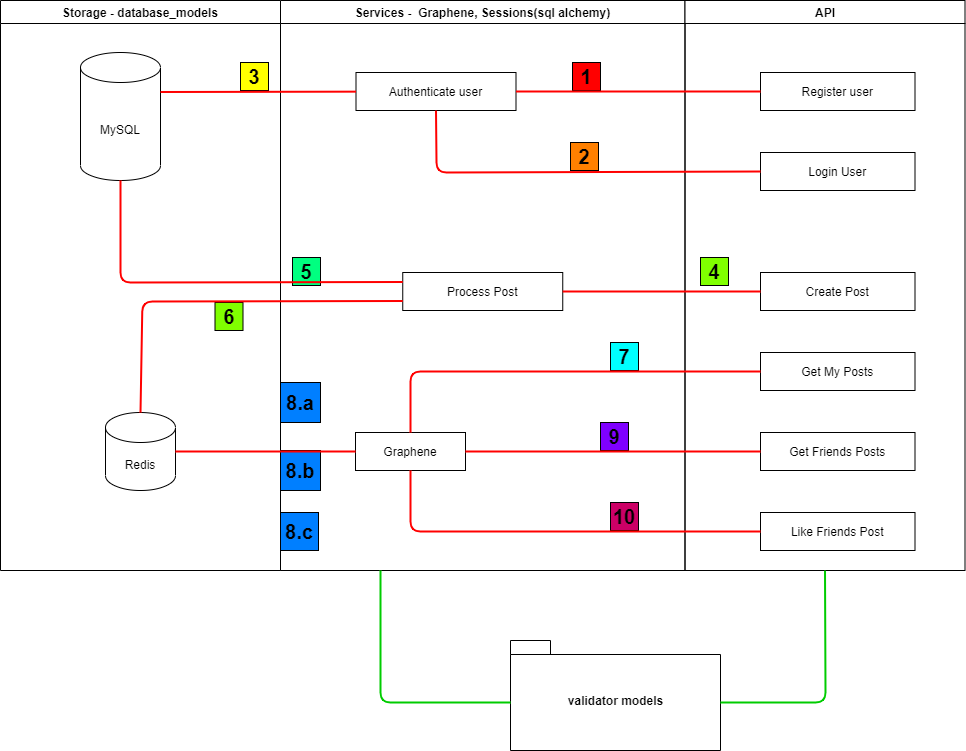
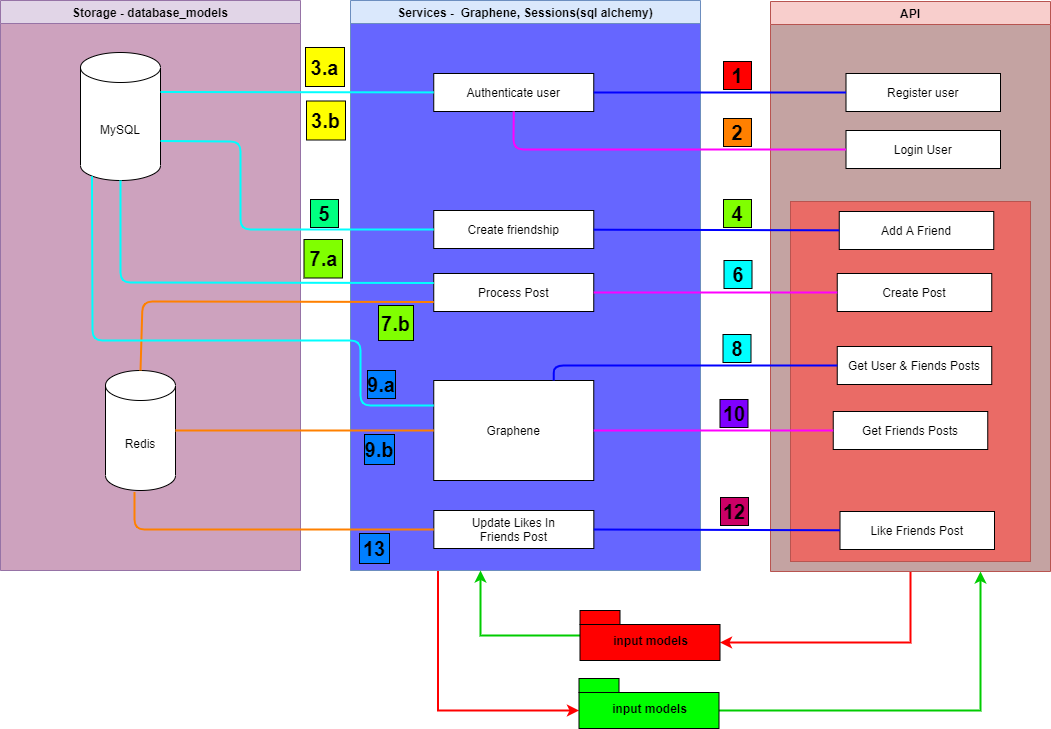
Update the readme file, updated layered Architecture picture

diff --git a/README.md b/README.md
@@ -2,13 +2,10 @@
 [![codecov](https://codecov.io/gh/Skhendle/GraphQL_System/branch/main/graph/badge.svg?token=rSx7WWHUb9)](https://codecov.io/gh/Skhendle/GraphQL_System)
 <br>
 # **GraphQL_System**
-This is a backend package that plans to build an API server, that is backed by SQLAlchemeny, Redis and graphene. The authentication will be done through MySQL
+This is a backend system that plans to build an API server for  a user blogging platfrom. It will be built with SQLAlchemeny, SQLlite, Redis and graphene. It will have three layers. The storage layer that contains all the system data, service layer that will allow us to implement the system requirements logic and API  layer that will allow external programs to  commincate with the system.
 
 
-
-
-
-## **How to stat-up the app** <br>
+## **How To Start She APP** <br>
 ```python
 # Python version: 3.9.0
 "MINGW64 - bash terminal"
@@ -23,14 +20,10 @@ To activate virtual environment
 $ GraphQL_System : source ".\env\Scripts\activate"
 
 To install the requirements run
-$ GraphQL_System : cd app
-$ GraphQL_System\app : pip  install -r requirements.txt
-$ GraphQL_System\app : cd ..
+$ GraphQL_System : pip  install -r requirements.txt
 
 To update requirements.txt after installing new package
-$ GraphQL_System : cd app
 $ GraphQL_System\app : pip freeze > requirements.txt
-$ GraphQL_System\app : cd ..
 
 To run the application use the following command
 $ GraphQL_System : uvicorn app.main:app --reload
@@ -39,21 +32,25 @@ To deactivate virtual enviroment
 $ GraphQL_System : deactivate
 ```
 
-## **Accessing the API's** <br>
+## **Accessing API DOCUMENTATION** <br>
 - {server url}/docs
 - {server url}/redoc
 
 
 ## </br> **API Routes Documentation Format**
-* Describes the documenation structure for routes, how they are accessed, parameters they use and their responses.</br>
+* Describes the documenation structure for routes, how they are accessed, parameters they use, service packages used and the response.</br>
 
 ### **Package Layer Name | Layer**
 <blockquote>
-[x] __API__ - *Provides the URL of the API, states whether it is a POST, GET, DELETE or UPDATE method, provides the library used to build/support page.*</br>
 
-[x] __Input__ - *Describes the parameters of the __API__*.</br>
+[x] __API__ - *Provides the URL of the API, states whether it is a POST, GET, DELETE or UPDATE method, provides the library used to build/support page.*
+</br>
 
-[x] __Service__ - *Specifies the name of the class used by the route and the location of the file containing the route.*<br>
+[x] __Input__ - *Describes the parameters of the __API__.*
+</br>
+
+[x] __Services__ - *Specifies the name of the class used by the route and the location of the file containing the route.*
+</br>
 
 [x] __Output__ - *Feedback from server, depends on __Input__*</br>
 </blockquote>
@@ -125,10 +122,10 @@ $ GraphQL_System : deactivate
 [x] __Service__ -
 ```python
 {
-    "Class name": "UserLogin()",
+    "Class name": "UserLogin(), UserFriends()",
     "packages": ["app.data_models.databse_models",
         "app.data_models.validator_models"],
-    "file path": "app.services.user_login.py"
+    "file path": ["app.services.user_login.py", "app.services.get_friends.py"]
 }
 
 ```
@@ -184,57 +181,4 @@ $ GraphQL_System : deactivate
 
 
 
-### <br>*Register User | Authenticate* {
-<blockquote>
-[x] __API__ -  
 
-```python
-{"URL" : "###",  "method": "Insert to db", "library": "sqlalchemy"}
-```
-
-[x] __Input__ -
-```python
-{"username":"###", "password":"###", "age":"###", "gender":"###"}
-```
-.</br>
-
-[x] __Class__ -
-```python
-
-# Class name: RegisterUserModel(sqlalchemy)
-# file location: app/authentication/register_user.py
-
-```
-<br>
-
-[x] __Output__ - *Feedback from server, depends on __Input__*</br>
-</blockquote>
-}
-
-
-### <br>*Create Post | Validate* {
-<blockquote>
-[x] __API__ -  
-
-```python
-{"URL" : "###",  "method": "Insert to db", "library": "sqlalchemy"}
-```
-
-[x] __Input__ -
-```python
-{"user_id":"###", "heading":"###", "body":"###"}
-```
-.</br>
-
-[x] __Class__ -
-```python
-
-# Class name: RegisterUserModel(sqlalchemy)
-# file location: app/authentication/register_user.py
-
-```
-<br>
-
-[x] __Output__ - *Feedback from server, depends on __Input__*</br>
-</blockquote>
-}
